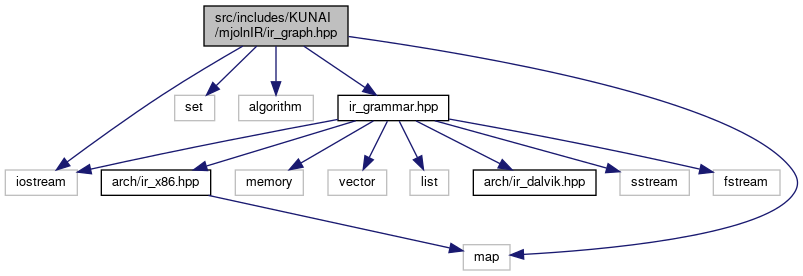
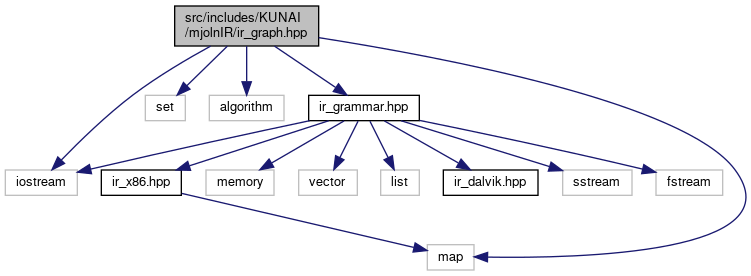
deploy: 3b711de554d8e712cf17672d0adb2e303fdae750

diff --git a/d5/db8/lifter__android_8hpp.html b/d5/db8/lifter__android_8hpp.html
@@ -78,8 +78,8 @@ $(function() {
 <a href="#details">More...</a></p>
 <div class="textblock"><code>#include &lt;iostream&gt;</code><br />
 <code>#include &lt;set&gt;</code><br />
-<code>#include &quot;DVM/dex_instructions.hpp&quot;</code><br />
-<code>#include &quot;Analysis/dex_analysis.hpp&quot;</code><br />
+<code>#include &quot;dex_instructions.hpp&quot;</code><br />
+<code>#include &quot;dex_analysis.hpp&quot;</code><br />
 <code>#include &quot;<a class="el" href="../../d0/d75/ir__graph_8hpp_source.html">ir_graph.hpp</a>&quot;</code><br />
 <code>#include &quot;<a class="el" href="../../d6/d5b/lifter__android__instructions_8hpp_source.html">lifter_android_instructions.hpp</a>&quot;</code><br />
 </div><div class="textblock"><div class="dynheader">
@@ -87,14 +87,14 @@ Include dependency graph for lifter_android.hpp:</div>
 <div class="dyncontent">
 <div class="center"><img src="../../d5/d68/lifter__android_8hpp__incl.png" border="0" usemap="#asrc_2includes_2KUNAI_2mjolnIR_2Lifters_2lifter__android_8hpp" alt=""/></div>
 <map name="asrc_2includes_2KUNAI_2mjolnIR_2Lifters_2lifter__android_8hpp" id="asrc_2includes_2KUNAI_2mjolnIR_2Lifters_2lifter__android_8hpp">
-<area shape="rect" title="Class for lifting the code from the Android methods/classes to mjolnIR, different analysis can be app..." alt="" coords="2997,5,3137,61"/>
+<area shape="rect" title="Class for lifting the code from the Android methods/classes to mjolnIR, different analysis can be app..." alt="" coords="2979,5,3119,61"/>
 <area shape="rect" title=" " alt="" coords="2229,1020,2301,1047"/>
 <area shape="rect" title=" " alt="" coords="3373,184,3413,211"/>
-<area shape="rect" href="../../d2/d2b/dex__instructions_8hpp_source.html" title=" " alt="" coords="2075,184,2248,211"/>
-<area shape="rect" href="../../dd/df2/dex__analysis_8hpp_source.html" title=" " alt="" coords="2876,109,3049,136"/>
-<area shape="rect" href="../../d0/d75/ir__graph_8hpp.html" title="DiGraph class from miasm implemented in C++ using the classes from MjolnIR, some of basic graph analy..." alt="" coords="3367,109,3459,136"/>
-<area shape="rect" href="../../d6/d5b/lifter__android__instructions_8hpp.html" title="Instructions from Android DALVIK for the lifter." alt="" coords="3073,109,3268,136"/>
-<area shape="rect" title=" " alt="" coords="2599,259,2641,285"/>
+<area shape="rect" href="../../d2/d2b/dex__instructions_8hpp_source.html" title=" " alt="" coords="2091,184,2231,211"/>
+<area shape="rect" href="../../dd/df2/dex__analysis_8hpp_source.html" title=" " alt="" coords="2899,109,3019,136"/>
+<area shape="rect" href="../../d0/d75/ir__graph_8hpp.html" title="DiGraph class from miasm implemented in C++ using the classes from MjolnIR, some of basic graph analy..." alt="" coords="3375,109,3467,136"/>
+<area shape="rect" href="../../d6/d5b/lifter__android__instructions_8hpp.html" title="Instructions from Android DALVIK for the lifter." alt="" coords="3043,109,3237,136"/>
+<area shape="rect" title=" " alt="" coords="2616,259,2659,285"/>
 <area shape="rect" title=" " alt="" coords="2190,781,2258,808"/>
 <area shape="rect" title=" " alt="" coords="1652,856,1719,883"/>
 <area shape="rect" title=" " alt="" coords="2844,259,2895,285"/>
@@ -105,14 +105,14 @@ Include dependency graph for lifter_android.hpp:</div>
 <area shape="rect" href="../../da/d49/exceptions_8hpp_source.html" title=" " alt="" coords="1043,856,1151,883"/>
 <area shape="rect" href="../../df/d93/utils_8hpp_source.html" title=" " alt="" coords="1175,856,1246,883"/>
 <area shape="rect" title=" " alt="" coords="2334,856,2381,883"/>
-<area shape="rect" href="../../d2/d94/dex__parser_8hpp_source.html" title=" " alt="" coords="1401,333,1511,360"/>
-<area shape="rect" title=" " alt="" coords="1519,408,1580,435"/>
+<area shape="rect" href="../../d2/d94/dex__parser_8hpp_source.html" title=" " alt="" coords="1397,333,1507,360"/>
+<area shape="rect" title=" " alt="" coords="1515,408,1576,435"/>
 <area shape="rect" href="../../d1/d78/dex__header_8hpp.html" title="Class that represents and contains the DEX file header structure." alt="" coords="803,781,915,808"/>
 <area shape="rect" href="../../d0/db1/dex__strings_8hpp.html" title="DEX file strings, these are the offsets in the file, we will store the strings too." alt="" coords="1344,781,1456,808"/>
 <area shape="rect" href="../../dc/d06/dex__types_8hpp.html" title="Serie of types which points to string values." alt="" coords="1461,707,1565,733"/>
-<area shape="rect" href="../../dd/df3/dex__protos_8hpp_source.html" title=" " alt="" coords="1233,632,1343,659"/>
+<area shape="rect" href="../../dd/df3/dex__protos_8hpp_source.html" title=" " alt="" coords="1229,632,1339,659"/>
 <area shape="rect" href="../../d6/d2d/dex__fields_8hpp_source.html" title=" " alt="" coords="2033,632,2135,659"/>
-<area shape="rect" href="../../d0/d11/dex__methods_8hpp_source.html" title=" " alt="" coords="1519,557,1641,584"/>
+<area shape="rect" href="../../d0/d11/dex__methods_8hpp_source.html" title=" " alt="" coords="1515,557,1637,584"/>
 <area shape="rect" href="../../dc/d3b/dex__classes_8hpp_source.html" title=" " alt="" coords="2321,408,2439,435"/>
 <area shape="rect" href="../../d5/d81/parserreading__exception_8hpp_source.html" title=" " alt="" coords="1319,938,1505,965"/>
 <area shape="rect" href="../../dc/d37/outofbound__exception_8hpp_source.html" title=" " alt="" coords="1530,938,1702,965"/>
@@ -133,10 +133,10 @@ Include dependency graph for lifter_android.hpp:</div>
 <area shape="rect" title=" " alt="" coords="2792,184,2845,211"/>
 <area shape="rect" href="../../d5/daf/dex__external__classes_8hpp.html" title="Android external class used to create specific object in the analysis of the code,..." alt="" coords="3188,408,3359,435"/>
 <area shape="rect" href="../../dd/df7/dex__external__methods_8hpp.html" title="Android external methods, used in exteran classes, used to fill those calls to methods not declared i..." alt="" coords="3123,483,3298,509"/>
-<area shape="rect" href="../../d9/d2a/ir__grammar_8hpp.html" title="Header file which includes all the grammar of the IR, this will be used as header file by all the int..." alt="" coords="3185,707,3295,733"/>
-<area shape="rect" title=" " alt="" coords="3278,781,3317,808"/>
-<area shape="rect" href="../../d5/db7/ir__x86_8hpp.html" title="Values specific for x86 and x86&#45;64 for the registers this will be enums for the registers,..." alt="" coords="3093,781,3203,808"/>
-<area shape="rect" href="../../d3/d09/ir__dalvik_8hpp.html" title="All the data values for the dalvik virtual machine." alt="" coords="3341,781,3464,808"/>
+<area shape="rect" href="../../d9/d2a/ir__grammar_8hpp.html" title="Header file which includes all the grammar of the IR, this will be used as header file by all the int..." alt="" coords="3155,707,3266,733"/>
+<area shape="rect" title=" " alt="" coords="3249,781,3287,808"/>
+<area shape="rect" href="../../d5/db7/ir__x86_8hpp.html" title="Values specific for x86 and x86&#45;64 for the registers this will be enums for the registers,..." alt="" coords="3093,781,3173,808"/>
+<area shape="rect" href="../../d3/d09/ir__dalvik_8hpp.html" title="All the data values for the dalvik virtual machine." alt="" coords="3311,781,3406,808"/>
 </map>
 </div>
 </div>

diff --git a/d0/d75/ir__graph_8hpp.html b/d0/d75/ir__graph_8hpp.html
@@ -86,19 +86,19 @@ Include dependency graph for ir_graph.hpp:</div>
 <div class="dyncontent">
 <div class="center"><img src="../../da/d63/ir__graph_8hpp__incl.png" border="0" usemap="#asrc_2includes_2KUNAI_2mjolnIR_2ir__graph_8hpp" alt=""/></div>
 <map name="asrc_2includes_2KUNAI_2mjolnIR_2ir__graph_8hpp" id="asrc_2includes_2KUNAI_2mjolnIR_2ir__graph_8hpp">
-<area shape="rect" title="DiGraph class from miasm implemented in C++ using the classes from MjolnIR, some of basic graph analy..." alt="" coords="204,5,348,47"/>
+<area shape="rect" title="DiGraph class from miasm implemented in C++ using the classes from MjolnIR, some of basic graph analy..." alt="" coords="175,5,319,47"/>
 <area shape="rect" title=" " alt="" coords="5,169,77,196"/>
-<area shape="rect" title=" " alt="" coords="175,95,215,121"/>
-<area shape="rect" title=" " alt="" coords="239,95,313,121"/>
-<area shape="rect" title=" " alt="" coords="463,244,510,271"/>
-<area shape="rect" href="../../d9/d2a/ir__grammar_8hpp.html" title="Header file which includes all the grammar of the IR, this will be used as header file by all the int..." alt="" coords="338,95,449,121"/>
-<area shape="rect" title=" " alt="" coords="620,169,689,196"/>
-<area shape="rect" title=" " alt="" coords="713,169,780,196"/>
-<area shape="rect" title=" " alt="" coords="235,169,303,196"/>
-<area shape="rect" title=" " alt="" coords="328,169,387,196"/>
-<area shape="rect" title=" " alt="" coords="410,169,449,196"/>
-<area shape="rect" href="../../d5/db7/ir__x86_8hpp.html" title="Values specific for x86 and x86&#45;64 for the registers this will be enums for the registers,..." alt="" coords="101,169,211,196"/>
-<area shape="rect" href="../../d3/d09/ir__dalvik_8hpp.html" title="All the data values for the dalvik virtual machine." alt="" coords="473,169,596,196"/>
+<area shape="rect" title=" " alt="" coords="145,95,185,121"/>
+<area shape="rect" title=" " alt="" coords="209,95,284,121"/>
+<area shape="rect" title=" " alt="" coords="427,244,474,271"/>
+<area shape="rect" href="../../d9/d2a/ir__grammar_8hpp.html" title="Header file which includes all the grammar of the IR, this will be used as header file by all the int..." alt="" coords="309,95,419,121"/>
+<area shape="rect" title=" " alt="" coords="563,169,632,196"/>
+<area shape="rect" title=" " alt="" coords="656,169,723,196"/>
+<area shape="rect" title=" " alt="" coords="206,169,274,196"/>
+<area shape="rect" title=" " alt="" coords="299,169,357,196"/>
+<area shape="rect" title=" " alt="" coords="381,169,419,196"/>
+<area shape="rect" href="../../d5/db7/ir__x86_8hpp.html" title="Values specific for x86 and x86&#45;64 for the registers this will be enums for the registers,..." alt="" coords="101,169,181,196"/>
+<area shape="rect" href="../../d3/d09/ir__dalvik_8hpp.html" title="All the data values for the dalvik virtual machine." alt="" coords="443,169,538,196"/>
 </map>
 </div>
 </div><div class="textblock"><div class="dynheader">

diff --git a/d9/d2a/ir__grammar_8hpp.html b/d9/d2a/ir__grammar_8hpp.html
@@ -82,8 +82,8 @@ $(function() {
 <code>#include &lt;memory&gt;</code><br />
 <code>#include &lt;vector&gt;</code><br />
 <code>#include &lt;list&gt;</code><br />
-<code>#include &quot;<a class="el" href="../../d5/db7/ir__x86_8hpp_source.html">arch/ir_x86.hpp</a>&quot;</code><br />
-<code>#include &quot;<a class="el" href="../../d3/d09/ir__dalvik_8hpp_source.html">arch/ir_dalvik.hpp</a>&quot;</code><br />
+<code>#include &quot;<a class="el" href="../../d5/db7/ir__x86_8hpp_source.html">ir_x86.hpp</a>&quot;</code><br />
+<code>#include &quot;<a class="el" href="../../d3/d09/ir__dalvik_8hpp_source.html">ir_dalvik.hpp</a>&quot;</code><br />
 </div><div class="textblock"><div class="dynheader">
 Include dependency graph for ir_grammar.hpp:</div>
 <div class="dyncontent">
@@ -96,9 +96,9 @@ Include dependency graph for ir_grammar.hpp:</div>
 <area shape="rect" title=" " alt="" coords="286,95,354,121"/>
 <area shape="rect" title=" " alt="" coords="379,95,437,121"/>
 <area shape="rect" title=" " alt="" coords="461,95,499,121"/>
-<area shape="rect" href="../../d5/db7/ir__x86_8hpp.html" title="Values specific for x86 and x86&#45;64 for the registers this will be enums for the registers,..." alt="" coords="524,95,633,121"/>
-<area shape="rect" href="../../d3/d09/ir__dalvik_8hpp.html" title="All the data values for the dalvik virtual machine." alt="" coords="657,95,780,121"/>
-<area shape="rect" title=" " alt="" coords="555,169,602,196"/>
+<area shape="rect" href="../../d5/db7/ir__x86_8hpp.html" title="Values specific for x86 and x86&#45;64 for the registers this will be enums for the registers,..." alt="" coords="523,95,603,121"/>
+<area shape="rect" href="../../d3/d09/ir__dalvik_8hpp.html" title="All the data values for the dalvik virtual machine." alt="" coords="627,95,722,121"/>
+<area shape="rect" title=" " alt="" coords="539,169,586,196"/>
 </map>
 </div>
 </div><div class="textblock"><div class="dynheader">

diff --git a/d6/d5b/lifter__android__instructions_8hpp.html b/d6/d5b/lifter__android__instructions_8hpp.html
@@ -76,17 +76,17 @@ $(function() {
 <p>Instructions from Android DALVIK for the lifter.  
 <a href="#details">More...</a></p>
 <div class="textblock"><code>#include &lt;set&gt;</code><br />
-<code>#include &quot;DVM/dex_dvm_types.hpp&quot;</code><br />
+<code>#include &quot;dex_dvm_types.hpp&quot;</code><br />
 </div><div class="textblock"><div class="dynheader">
 Include dependency graph for lifter_android_instructions.hpp:</div>
 <div class="dyncontent">
 <div class="center"><img src="../../dc/df3/lifter__android__instructions_8hpp__incl.png" border="0" usemap="#asrc_2includes_2KUNAI_2mjolnIR_2Lifters_2lifter__android__instructions_8hpp" alt=""/></div>
 <map name="asrc_2includes_2KUNAI_2mjolnIR_2Lifters_2lifter__android__instructions_8hpp" id="asrc_2includes_2KUNAI_2mjolnIR_2Lifters_2lifter__android__instructions_8hpp">
 <area shape="rect" title="Instructions from Android DALVIK for the lifter." alt="" coords="5,5,175,61"/>
-<area shape="rect" title=" " alt="" coords="6,109,46,136"/>
-<area shape="rect" href="../../de/d2a/dex__dvm__types_8hpp_source.html" title=" " alt="" coords="71,109,240,136"/>
-<area shape="rect" title=" " alt="" coords="77,184,149,211"/>
-<area shape="rect" title=" " alt="" coords="173,184,220,211"/>
+<area shape="rect" title=" " alt="" coords="14,109,54,136"/>
+<area shape="rect" href="../../de/d2a/dex__dvm__types_8hpp_source.html" title=" " alt="" coords="78,109,214,136"/>
+<area shape="rect" title=" " alt="" coords="67,184,139,211"/>
+<area shape="rect" title=" " alt="" coords="164,184,211,211"/>
 </map>
 </div>
 </div><div class="textblock"><div class="dynheader">

diff --git a/d9/d2a/ir__grammar_8hpp_source.html b/d9/d2a/ir__grammar_8hpp_source.html
@@ -79,8 +79,8 @@ $(function() {
 <div class="line"><a id="l00018" name="l00018"></a><span class="lineno">   18</span><span class="preprocessor">#include &lt;list&gt;</span></div>
 <div class="line"><a id="l00019" name="l00019"></a><span class="lineno">   19</span> </div>
 <div class="line"><a id="l00020" name="l00020"></a><span class="lineno">   20</span><span class="comment">// lifters</span></div>
-<div class="line"><a id="l00021" name="l00021"></a><span class="lineno">   21</span><span class="preprocessor">#include &quot;<a class="code" href="../../d5/db7/ir__x86_8hpp.html">arch/ir_x86.hpp</a>&quot;</span></div>
-<div class="line"><a id="l00022" name="l00022"></a><span class="lineno">   22</span><span class="preprocessor">#include &quot;<a class="code" href="../../d3/d09/ir__dalvik_8hpp.html">arch/ir_dalvik.hpp</a>&quot;</span></div>
+<div class="line"><a id="l00021" name="l00021"></a><span class="lineno">   21</span><span class="preprocessor">#include &quot;<a class="code" href="../../d5/db7/ir__x86_8hpp.html">ir_x86.hpp</a>&quot;</span></div>
+<div class="line"><a id="l00022" name="l00022"></a><span class="lineno">   22</span><span class="preprocessor">#include &quot;<a class="code" href="../../d3/d09/ir__dalvik_8hpp.html">ir_dalvik.hpp</a>&quot;</span></div>
 <div class="line"><a id="l00023" name="l00023"></a><span class="lineno">   23</span> </div>
 <div class="line"><a id="l00024" name="l00024"></a><span class="lineno">   24</span><span class="keyword">namespace </span>KUNAI</div>
 <div class="line"><a id="l00025" name="l00025"></a><span class="lineno">   25</span>{</div>

diff --git a/d5/db8/lifter__android_8hpp_source.html b/d5/db8/lifter__android_8hpp_source.html
@@ -77,8 +77,8 @@ $(function() {
 <div class="line"><a id="l00013" name="l00013"></a><span class="lineno">   13</span><span class="preprocessor">#include &lt;iostream&gt;</span></div>
 <div class="line"><a id="l00014" name="l00014"></a><span class="lineno">   14</span><span class="preprocessor">#include &lt;set&gt;</span></div>
 <div class="line"><a id="l00015" name="l00015"></a><span class="lineno">   15</span><span class="comment">// DEX</span></div>
-<div class="line"><a id="l00016" name="l00016"></a><span class="lineno">   16</span><span class="preprocessor">#include &quot;DVM/dex_instructions.hpp&quot;</span></div>
-<div class="line"><a id="l00017" name="l00017"></a><span class="lineno">   17</span><span class="preprocessor">#include &quot;Analysis/dex_analysis.hpp&quot;</span></div>
+<div class="line"><a id="l00016" name="l00016"></a><span class="lineno">   16</span><span class="preprocessor">#include &quot;dex_instructions.hpp&quot;</span></div>
+<div class="line"><a id="l00017" name="l00017"></a><span class="lineno">   17</span><span class="preprocessor">#include &quot;dex_analysis.hpp&quot;</span></div>
 <div class="line"><a id="l00018" name="l00018"></a><span class="lineno">   18</span> </div>
 <div class="line"><a id="l00019" name="l00019"></a><span class="lineno">   19</span><span class="comment">// mjolnIR</span></div>
 <div class="line"><a id="l00020" name="l00020"></a><span class="lineno">   20</span><span class="preprocessor">#include &quot;<a class="code" href="../../d0/d75/ir__graph_8hpp.html">ir_graph.hpp</a>&quot;</span></div>

diff --git a/d6/d5b/lifter__android__instructions_8hpp_source.html b/d6/d5b/lifter__android__instructions_8hpp_source.html
@@ -75,7 +75,7 @@ $(function() {
 <div class="line"><a id="l00009" name="l00009"></a><span class="lineno">    9</span><span class="preprocessor">#define LIFTER_ANDROID_INSTRUCTIONS_HPP</span></div>
 <div class="line"><a id="l00010" name="l00010"></a><span class="lineno">   10</span> </div>
 <div class="line"><a id="l00011" name="l00011"></a><span class="lineno">   11</span><span class="preprocessor">#include &lt;set&gt;</span></div>
-<div class="line"><a id="l00012" name="l00012"></a><span class="lineno">   12</span><span class="preprocessor">#include &quot;DVM/dex_dvm_types.hpp&quot;</span></div>
+<div class="line"><a id="l00012" name="l00012"></a><span class="lineno">   12</span><span class="preprocessor">#include &quot;dex_dvm_types.hpp&quot;</span></div>
 <div class="line"><a id="l00013" name="l00013"></a><span class="lineno">   13</span> </div>
 <div class="line"><a id="l00014" name="l00014"></a><span class="lineno">   14</span><span class="keyword">namespace </span>KUNAI</div>
 <div class="line"><a id="l00015" name="l00015"></a><span class="lineno">   15</span>{</div>
